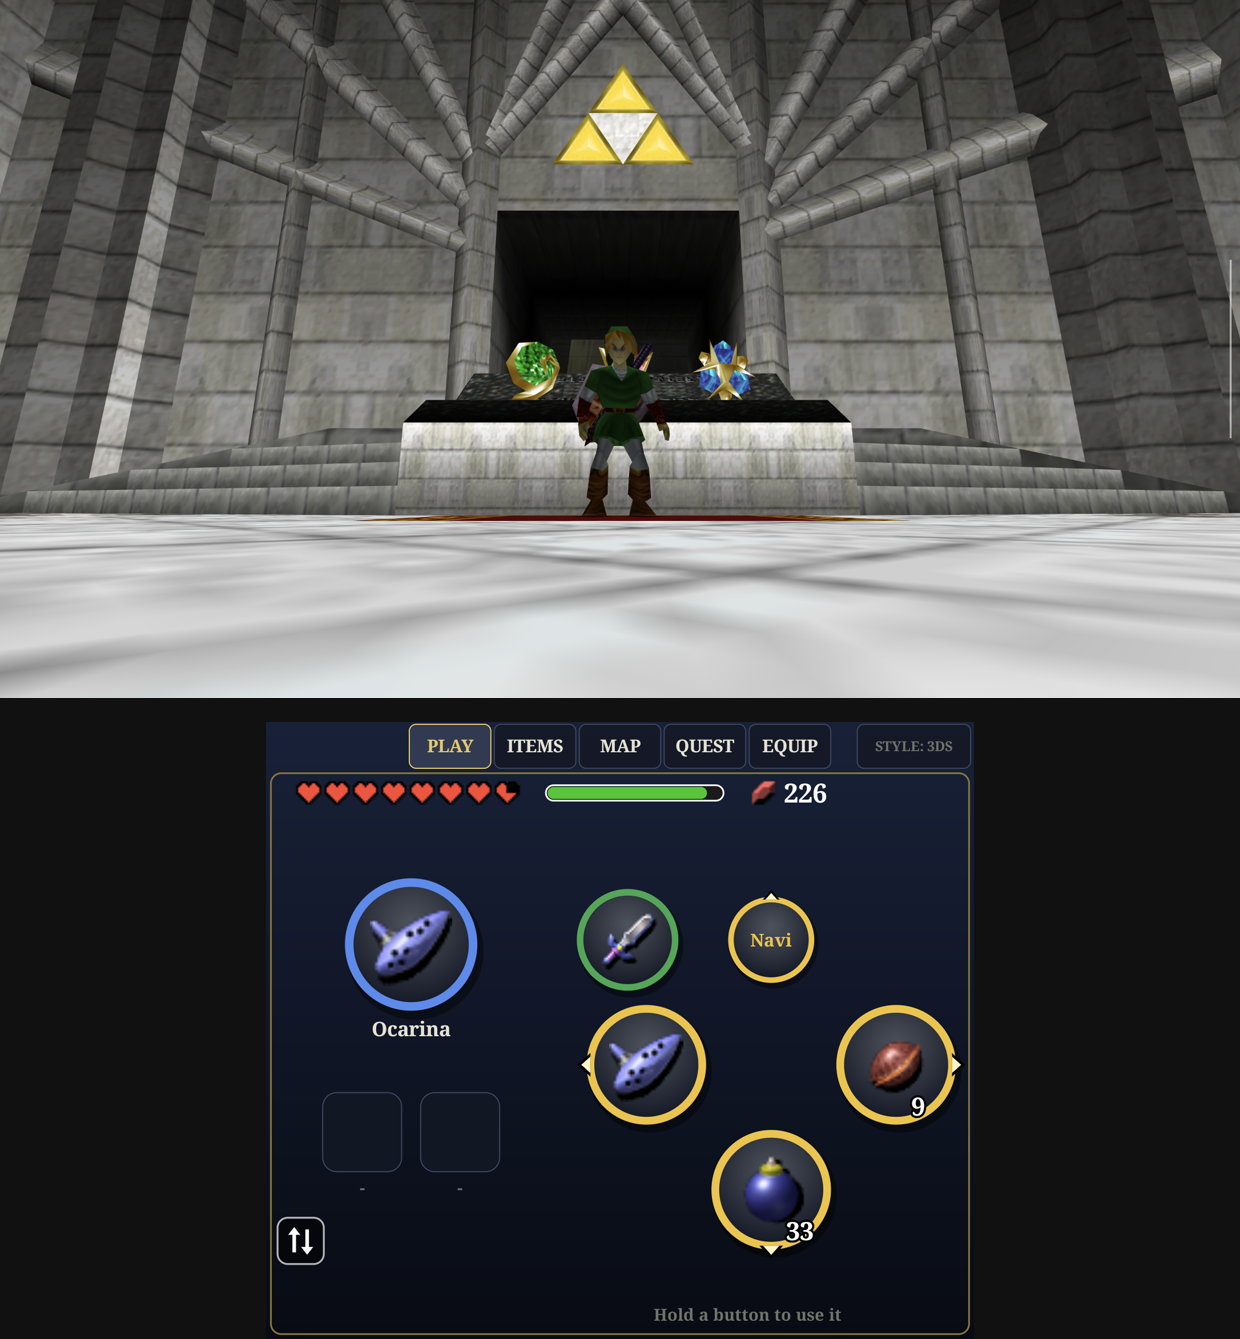
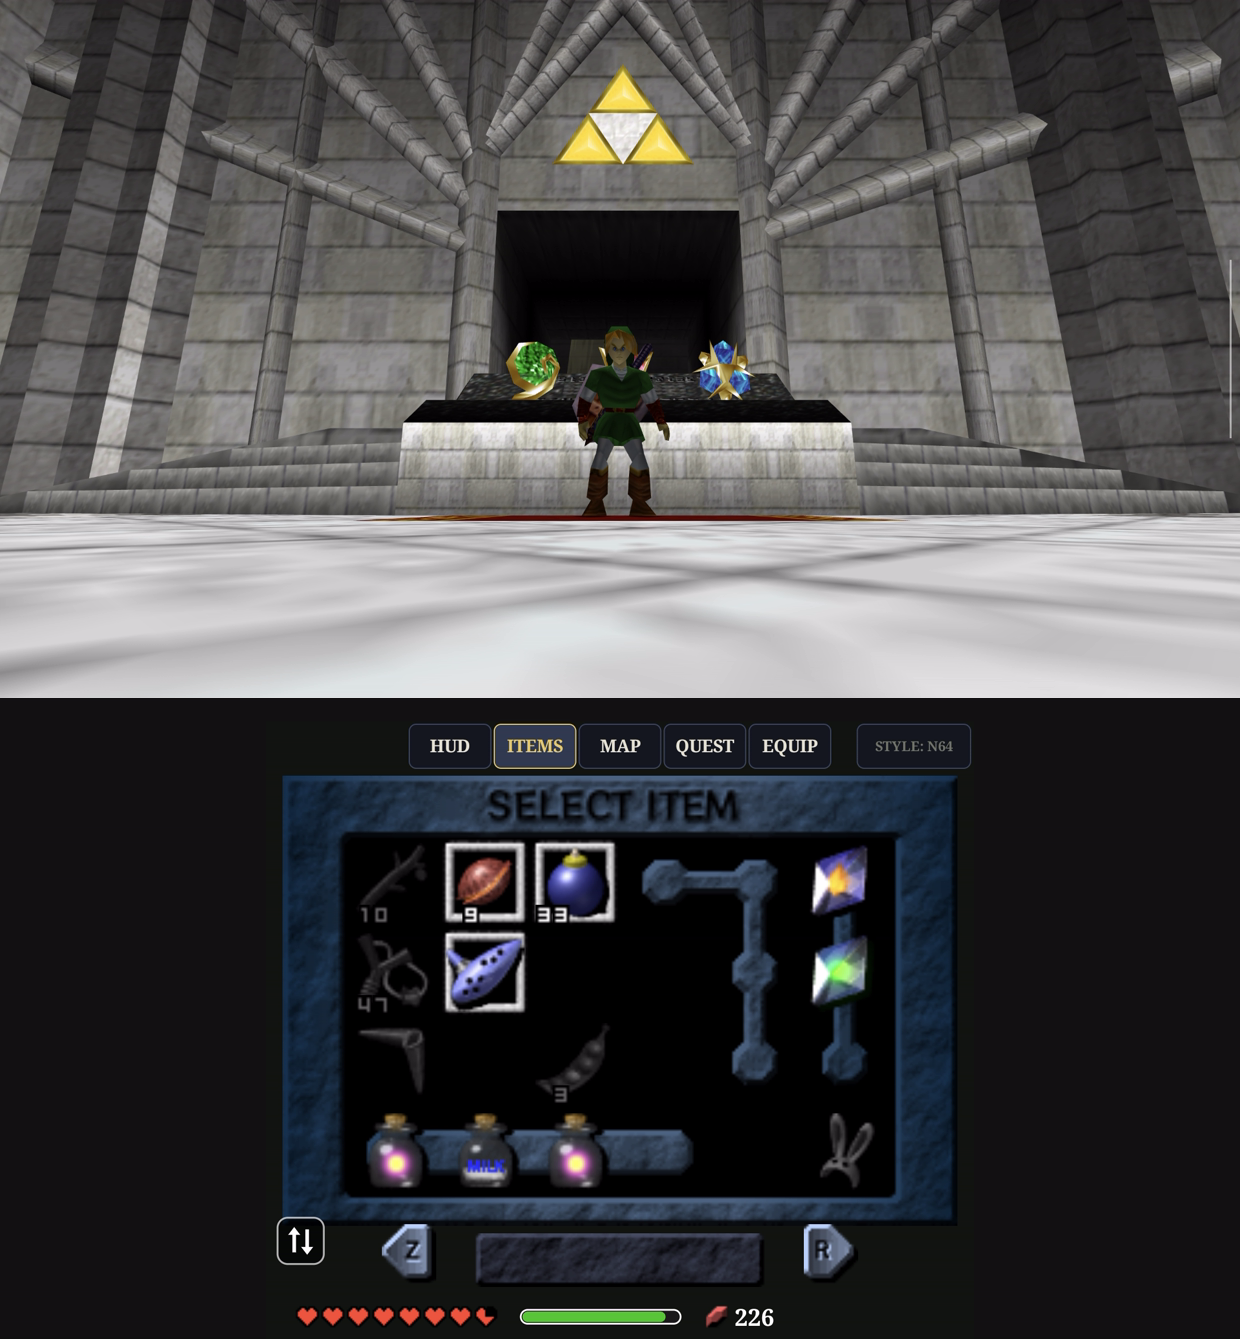
Main picture shows the N64 look (the default)

Changed region(s): [[0.2145, 0.5205, 0.7968, 1.0]]

diff --git a/README.md b/README.md
@@ -7,7 +7,7 @@ It also runs on regular phones and foldables, with touch buttons.
 
 **This is a fan project. It is not made or approved by Nintendo.**
 
-<img src="images/thor-temple-of-time.png" alt="AYN Thor: Link in the Temple of Time on the top screen, the 3DS-style PLAY page with B and C buttons on the bottom" width="560">
+<img src="images/thor-temple-of-time.png" alt="AYN Thor: Link in the Temple of Time on the top screen, the N64-style Select Item page on the bottom" width="560">
 
 ---
 
